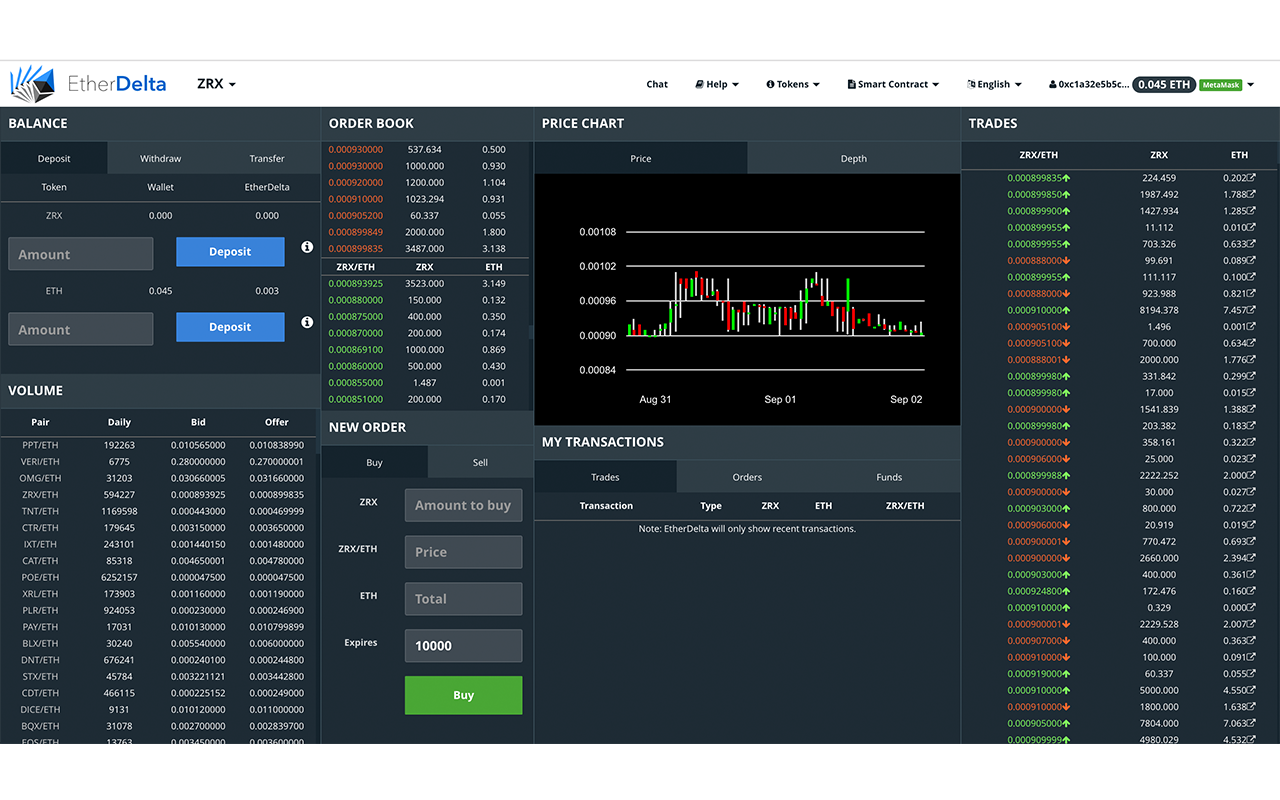
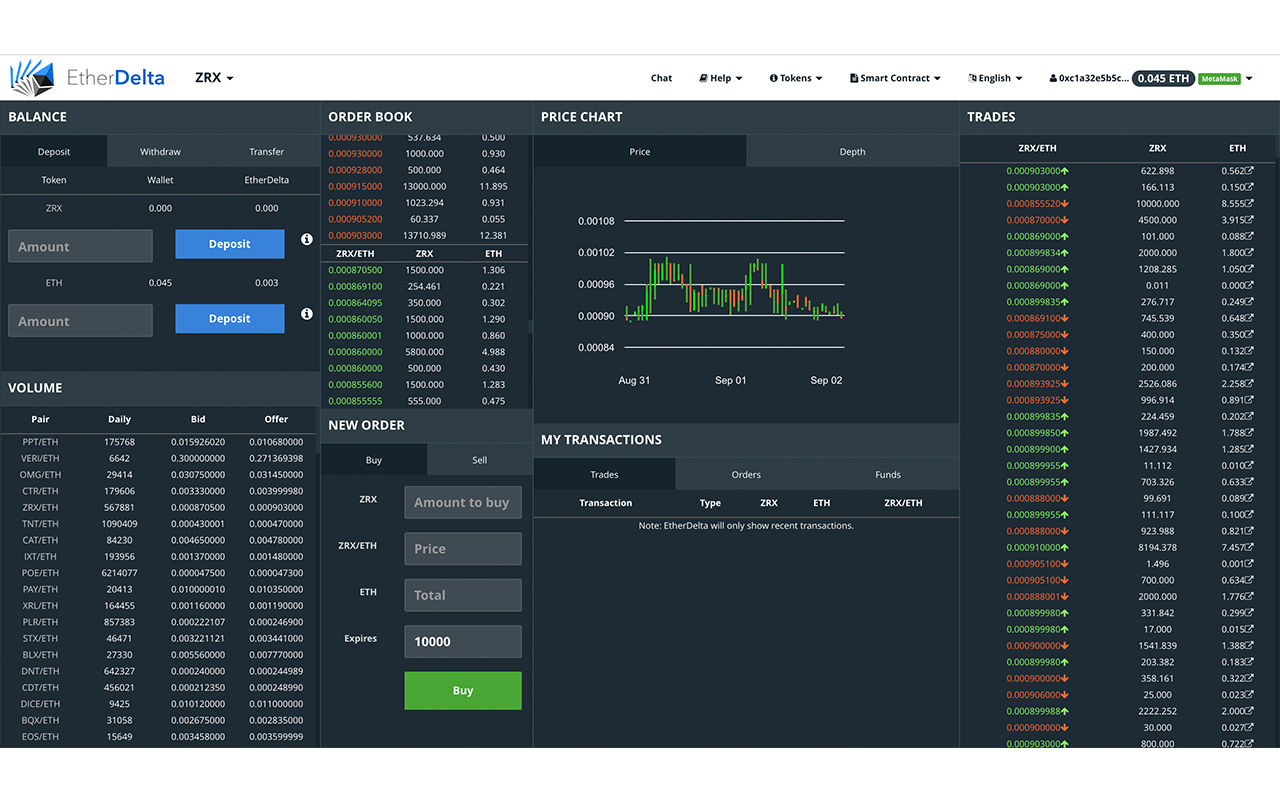
1.2

Changed region(s): [[0.0, 0.0625, 1.0, 0.9375], [0.6875, 0.5938, 0.75, 0.6562]]

diff --git a/extension/style.css b/extension/style.css
@@ -224,3 +224,27 @@ body::-webkit-scrollbar-thumb:hover,
 .modal-content {
   color: #15232c;
 }
+
+#chartPrice {
+  background: #1E2B34 !important;
+}
+
+#chartPrice [fill="#cccccc"] {
+  fill: #4da53c;
+}
+
+#chartPrice [fill="#ff0000"] {
+  fill: #ff6939;
+}
+
+#chartDepth {
+  background: #1E2B34 !important;
+}
+
+#chartDepth [fill="#cccccc"] {
+  fill: #4da53c;
+}
+
+#chartDepth [fill="#ff0000"] {
+  fill: #ff6939;
+}
